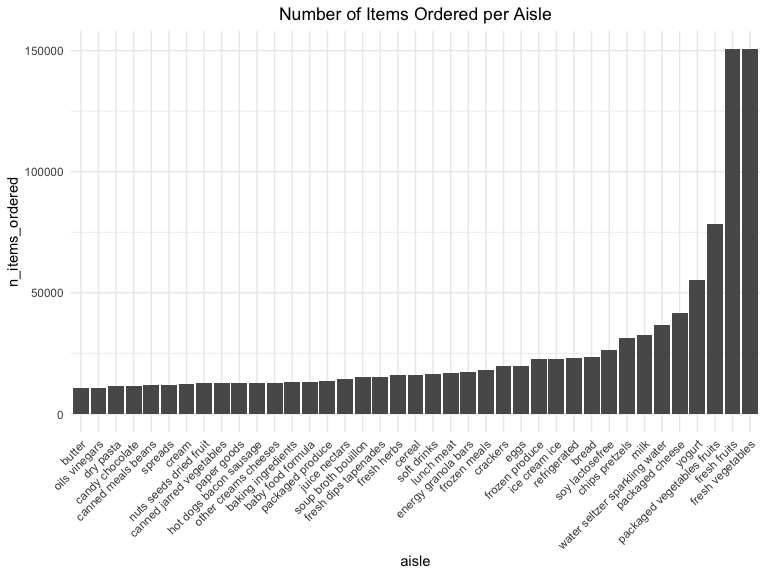
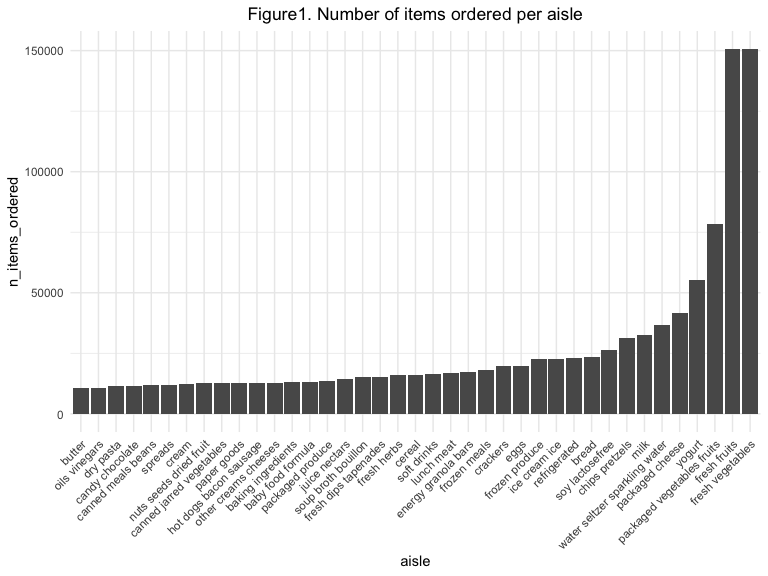
Plot showing most popular items per aisle, problem 1

Changed region(s): [[0.3125, 0.0, 0.75, 0.0625]]

diff --git a/p8105_hw3_sm4594.md b/p8105_hw3_sm4594.md
@@ -68,7 +68,7 @@ instacart %>%
     n_items_ordered = n()) %>% 
   mutate(aisle = reorder(aisle, n_items_ordered)) %>% 
   filter(n_items_ordered > 10000) %>% 
-  ggplot(aes(x = aisle, y = n_items_ordered)) + theme(axis.text.x = element_text(angle = 45, hjust = 1)) + geom_col() + ggtitle("Number of Items Ordered per Aisle") + theme(plot.title = element_text(hjust = 0.5))
+  ggplot(aes(x = aisle, y = n_items_ordered)) + theme(axis.text.x = element_text(angle = 45, hjust = 1)) + geom_col() + ggtitle("Figure1. Number of items ordered per aisle") + theme(plot.title = element_text(hjust = 0.5))
 ```
 
 <img src="p8105_hw3_sm4594_files/figure-gfm/aisle_plot-1.png" width="90%" />
@@ -77,29 +77,32 @@ instacart %>%
 
 ``` r
 instacart %>% 
-  group_by(aisle) %>%
-    summarize(
-    n_items_ordered = n())
+  group_by(product_name, aisle) %>%
+  summarize(
+    n_items_ordered = n()
+    ) %>% 
+  group_by(aisle) %>% 
+  filter(
+    aisle %in% c("baking ingredients","dog food care", "packaged vegetables fruits"),
+    min_rank(desc(n_items_ordered)) < 4) %>% 
+  arrange(n_items_ordered, aisle) %>% 
+  knitr::kable(format = 'pandoc', caption = "Table 1. Most popular items by aisle")
 ```
 
-    ## # A tibble: 134 x 2
-    ##    aisle                  n_items_ordered
-    ##    <chr>                            <int>
-    ##  1 air fresheners candles            1067
-    ##  2 asian foods                       7007
-    ##  3 baby accessories                   306
-    ##  4 baby bath body care                328
-    ##  5 baby food formula                13198
-    ##  6 bakery desserts                   1501
-    ##  7 baking ingredients               13088
-    ##  8 baking supplies decor             1094
-    ##  9 beauty                             287
-    ## 10 beers coolers                     1839
-    ## # … with 124 more rows
+| product\_name                                 | aisle                      | n\_items\_ordered |
+| :-------------------------------------------- | :------------------------- | ----------------: |
+| Small Dog Biscuits                            | dog food care              |                26 |
+| Organix Chicken & Brown Rice Recipe           | dog food care              |                28 |
+| Snack Sticks Chicken & Rice Recipe Dog Treats | dog food care              |                30 |
+| Cane Sugar                                    | baking ingredients         |               336 |
+| Pure Baking Soda                              | baking ingredients         |               387 |
+| Light Brown Sugar                             | baking ingredients         |               499 |
+| Organic Blueberries                           | packaged vegetables fruits |              4966 |
+| Organic Raspberries                           | packaged vegetables fruits |              5546 |
+| Organic Baby Spinach                          | packaged vegetables fruits |              9784 |
 
-``` r
-## come back to this 
-```
+Table 1. Most popular items by
+aisle
 
 ## Make a table showing mean time of day pink lady apples and coffee ice cream are ordered on each day of the week
 
